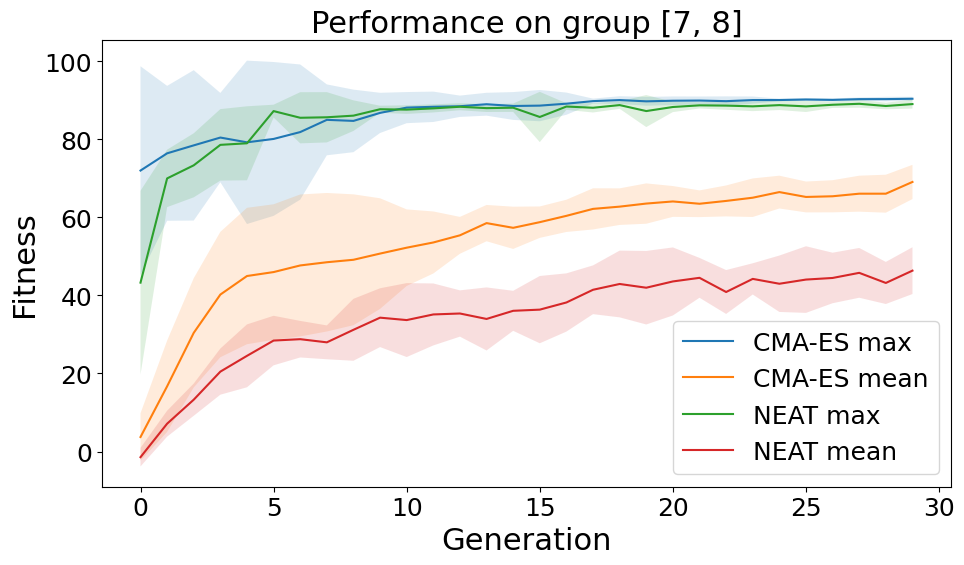
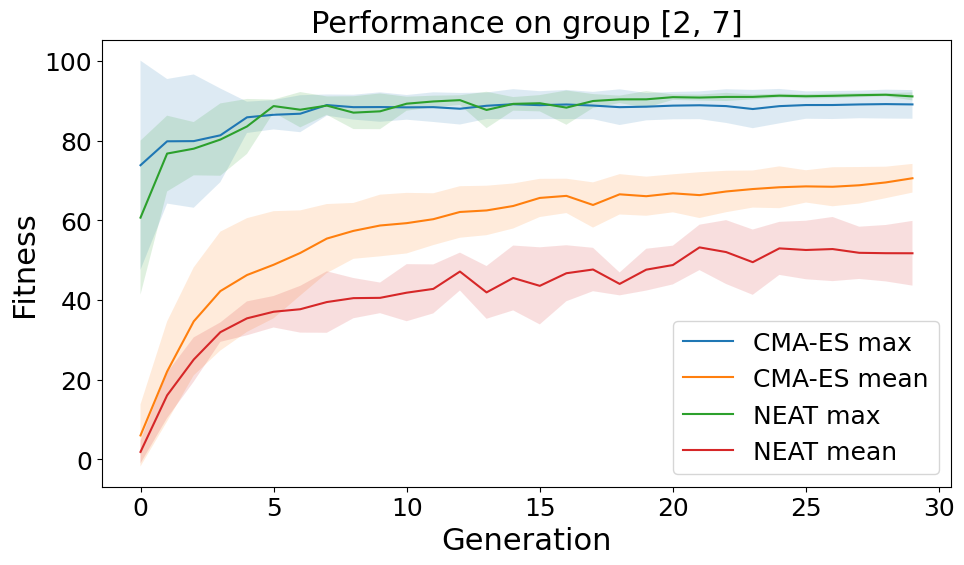
Small change

diff --git a/CMA-ES_plot.py b/CMA-ES_plot.py
@@ -64,9 +64,9 @@ def plot_training_curve():
         ax.set_title("Performance on group {}".format(group), fontsize=22)
         ax.legend()
         plt.tight_layout()
-        # plt.show()
-    plt.savefig('CMA-ES27/training_fitness27.png', bbox_inches='tight')
-    plt.savefig('CMA-ES78/training_fitness78.png', bbox_inches='tight')  
+        group_string = ''.join([str(e) for e in group])
+        plt.savefig('CMA-ES{}/training_fitness{}.png'.format(group_string, group_string), bbox_inches='tight')
+        plt.show()
 
 # choose this for not using visuals and thus making experiments faster
 headless = True
